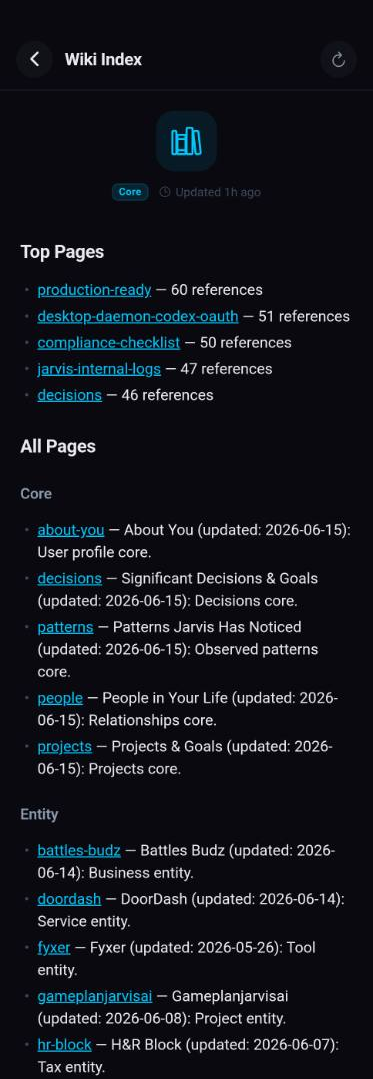
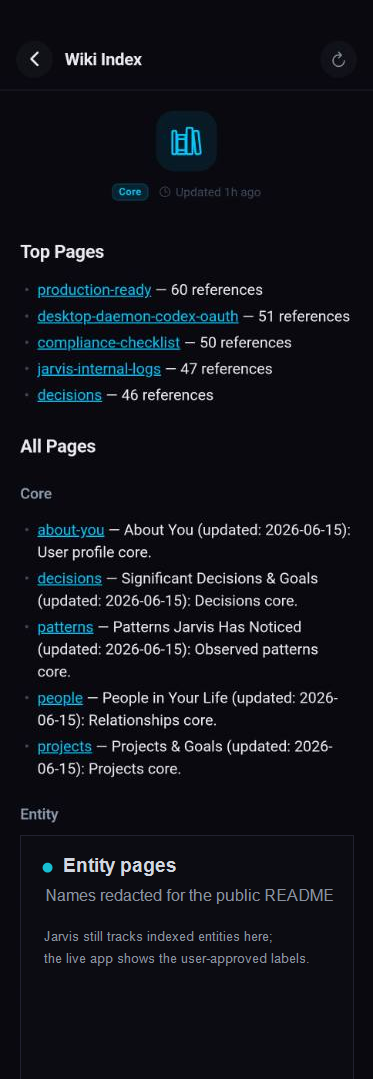
Redact wiki entity names in README screenshot

Changed region(s): [[0.0885, 0.7646, 0.9142, 1.0]]

diff --git a/README.md b/README.md
@@ -36,7 +36,7 @@ These public screenshots are cropped from the current mobile/web app surface. Th
 
 | Wiki Index | Universal Conversation Search |
 |---|---|
-| <img src="docs/assets/screenshots/mobile-wiki-index-detail.png" alt="Jarvis wiki index page with top pages and entity pages" width="220"> | <img src="docs/assets/screenshots/mobile-universal-conversation-search.png" alt="Jarvis universal conversation search requirements page" width="220"> |
+| <img src="docs/assets/screenshots/mobile-wiki-index-detail.png" alt="Jarvis wiki index page with redacted entity pages" width="220"> | <img src="docs/assets/screenshots/mobile-universal-conversation-search.png" alt="Jarvis universal conversation search requirements page" width="220"> |
 
 ## What Jarvis Can Do
 